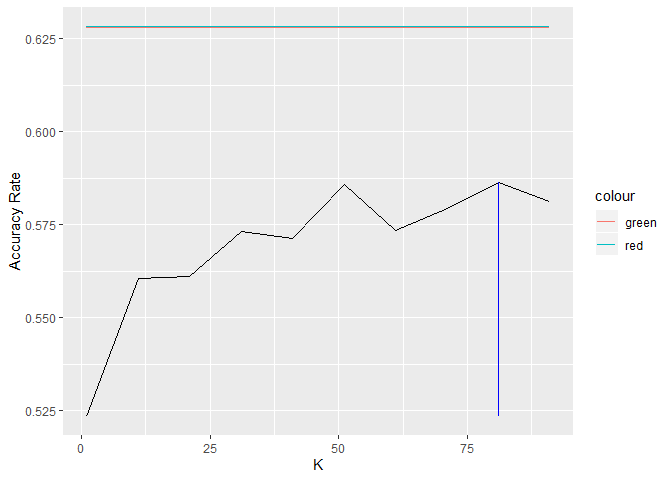
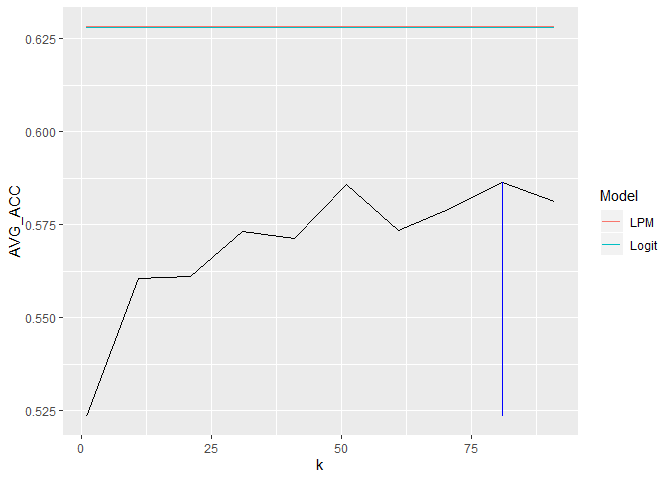
ad

diff --git a/Assignment-2.md b/Assignment-2.md
@@ -7,7 +7,7 @@ Homework. 2
 
 The question provides a data set of variables associated with house
 prices in Saratoga. We have data for more than 1,700 houses which
-include their prices, landvalue and other attributes like number of
+includes their prices, landvalue and other attributes like number of
 bedrooms, bathrooms, living area, lotsize etc. The task is to develop
 models for predicting the market prices of houses for tax authorities so
 that they can tax them at their market value. We use the given sample to
@@ -34,9 +34,9 @@ train/test samples.
 We make new variables like extrarooms = rooms - bedrooms. Also we
 include two variables landvalue and newConstruction which improves our
 RMSE. However, trying composite variables like living area per lotsize,
-bathrooms per bedroom and using building value by subtracting landvalue
-from the property price did not improve the out of sample RMSE of the
-model.We observed that adding more variables led to higher variance.
+bathrooms per bedroom and building value(subtracting landvalue from the
+property price) did not improve the out of sample RMSE of the model. We
+observed that adding more variables led to higher variance.
 
 #### Part B
 
@@ -45,12 +45,13 @@ can give us low variance but the lowest AIC model did not perform better
 at out of sample RMSE in multiple iterations. Including more interaction
 variables and polynomials manually and one by one also did not help.
 
-Looking at the co-efficients, we can say that lotsize, no. of bedrooms,
-no. of bathrooms, living area, central air, heating, fuel and land value
-are the most important variables in explaining the prices of houses in
-the sample. Some interaction variables also come out to be significant
-in the regression model but they do not contribute much to out of sample
-RMSE and in most cases increase error in out of sample prediction.
+Looking at the co-efficients, we can say that lotsize, number of
+bedrooms, number of bathrooms, living area, central air, heating, fuel
+and land value are the most important variables in explaining the prices
+of houses in the sample. Some interaction variables also come out to be
+significant in the regression model but they do not contribute much to
+out of sample RMSE and in most cases increase error in out of sample
+prediction.
 
 So we decided to have the following model as our final best linear
 regression model for house prices.
@@ -226,8 +227,8 @@ calculated its out of sample root mean squared error.
 In the third part, the question asks us to fit a K-nearest neighbor
 model. We select the same variables as our linear model and scale them
 accordingly to fit a KNN model. We did 300 loops for each K starting
-from 1 to 300 K’s. The average RMSE declines in the range of 100 to 150
-K. However, exact value of K with minimum average RMSE changes with each
+from 1 to 300 K. The average RMSE declines in the range of 100 to 150 K.
+However, exact value of K with minimum average RMSE changes with each
 iteration of 500 training/ test splits for each K.We selected K = 135
 based on our 500 training/ tests sample splits. It gave an RMSE of
 80616.
@@ -244,8 +245,8 @@ these models have their strengths and weaknesses. The main metric for
 comparing these two models is to check their out of sample prediction
 error or RMSE. By running the model on more than 500 different train/
 test samples we find out that Linear regression model has lower RMSE
-which means that on average linear model is predicting prices accurately
-as compared to KNN model.
+which means that on average linear model is predicting prices more
+accurately than the KNN model.
 
 Linear Regression model Mean RMSE = 59,536.05 KNN Model Mean RMSE at
 K-135 = 80,616.88
@@ -1089,6 +1090,16 @@ accuracy of the probabilistic models over the Knn classification model
 with differents values of K (see graph 1).
 
 **Graph 1. KNN models vs LPM and Logit Models**
+
+    ## $x
+    ## [1] "K"
+    ## 
+    ## $y
+    ## [1] "Accuracy Rate"
+    ## 
+    ## attr(,"class")
+    ## [1] "labels"
+
 ![](Assignment-2_files/figure-markdown_strict/unnamed-chunk-11-1.png)
 
 \#\#\#How can we increase the probability that an article goes viral?
